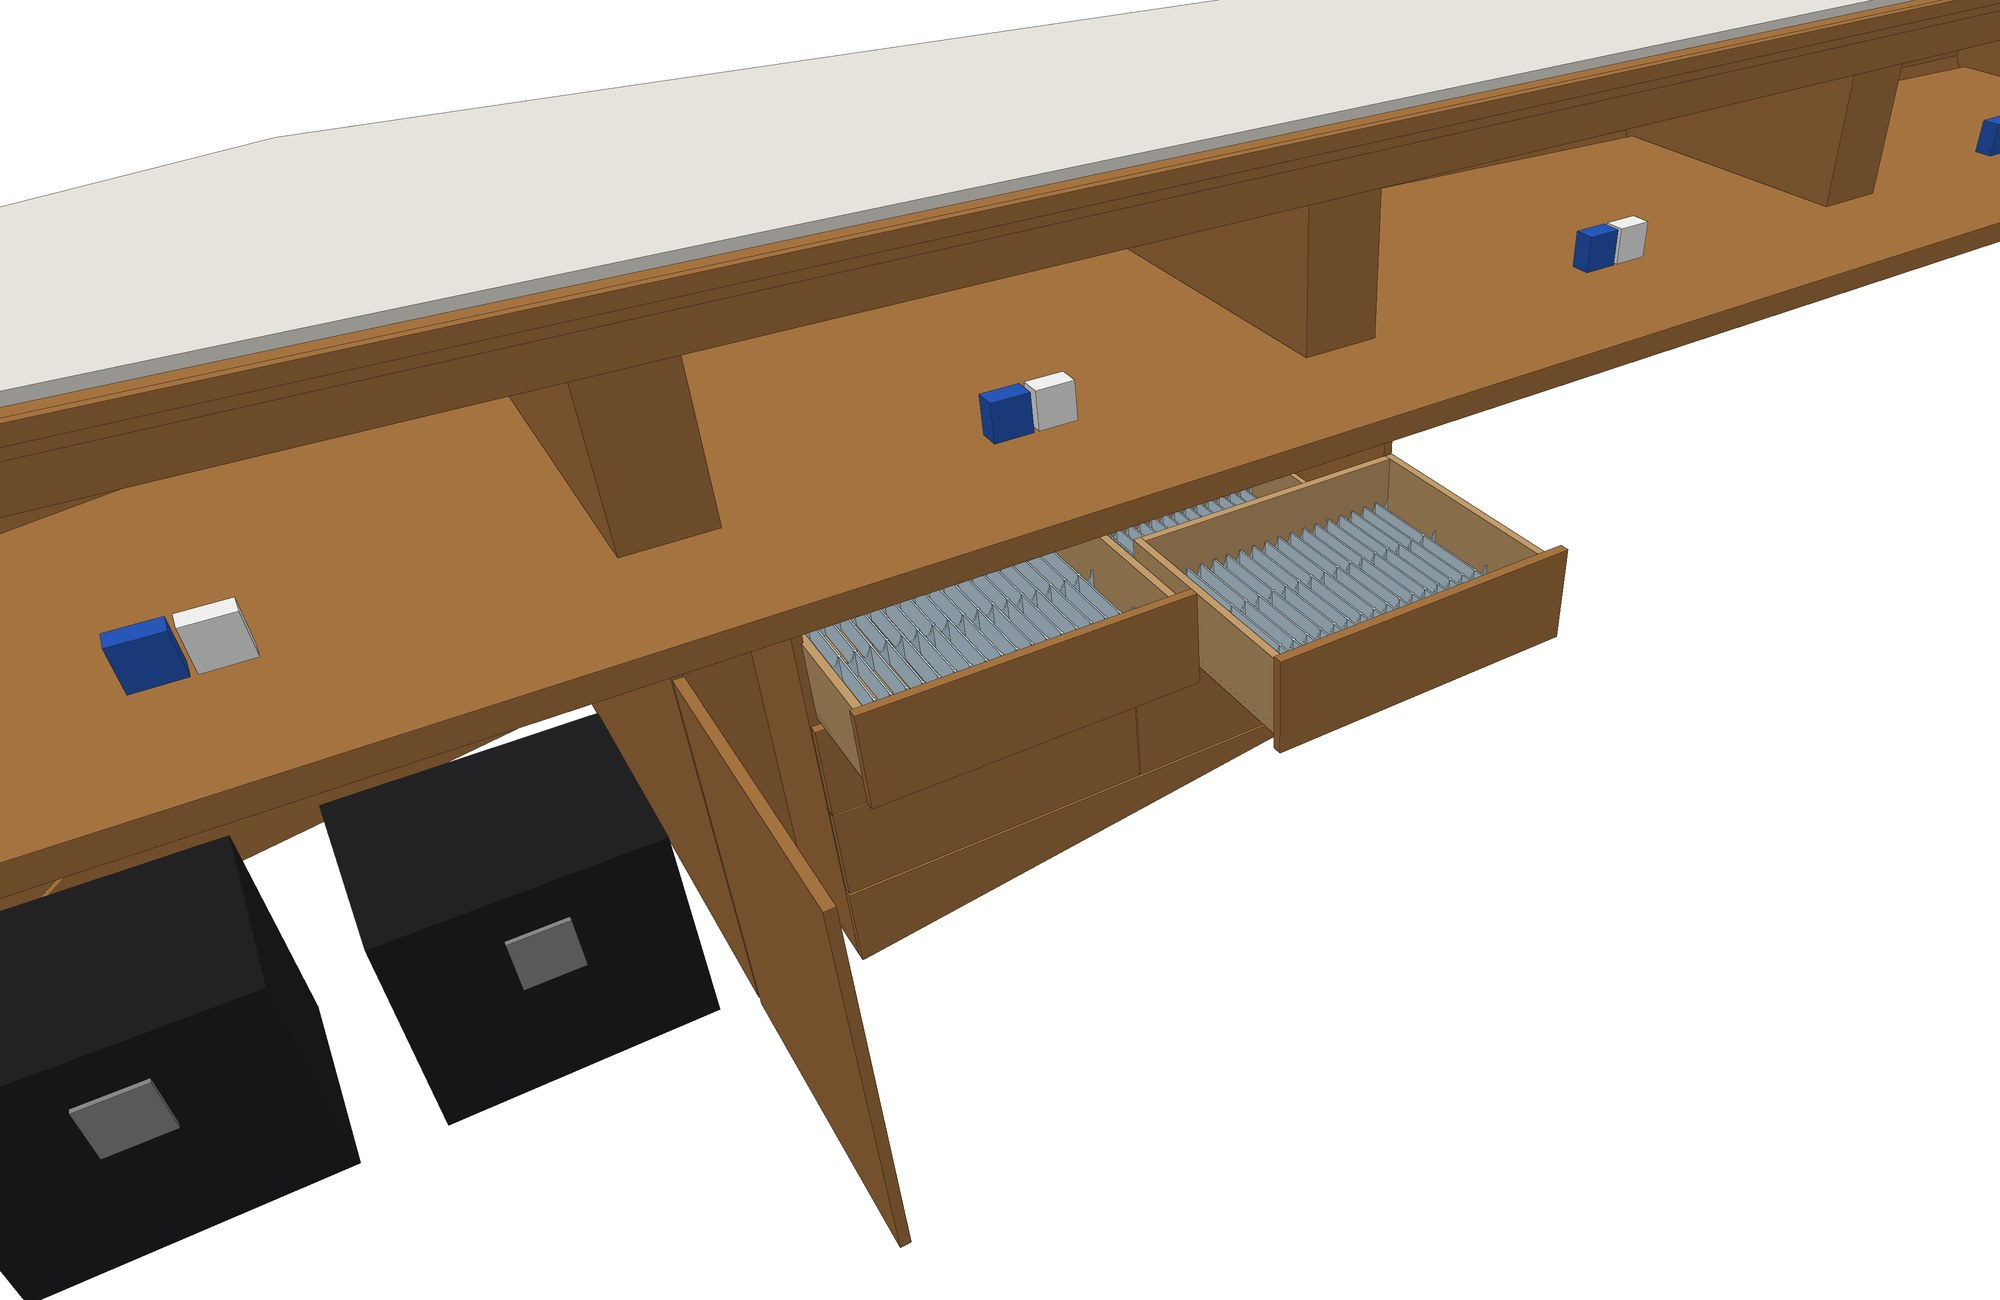
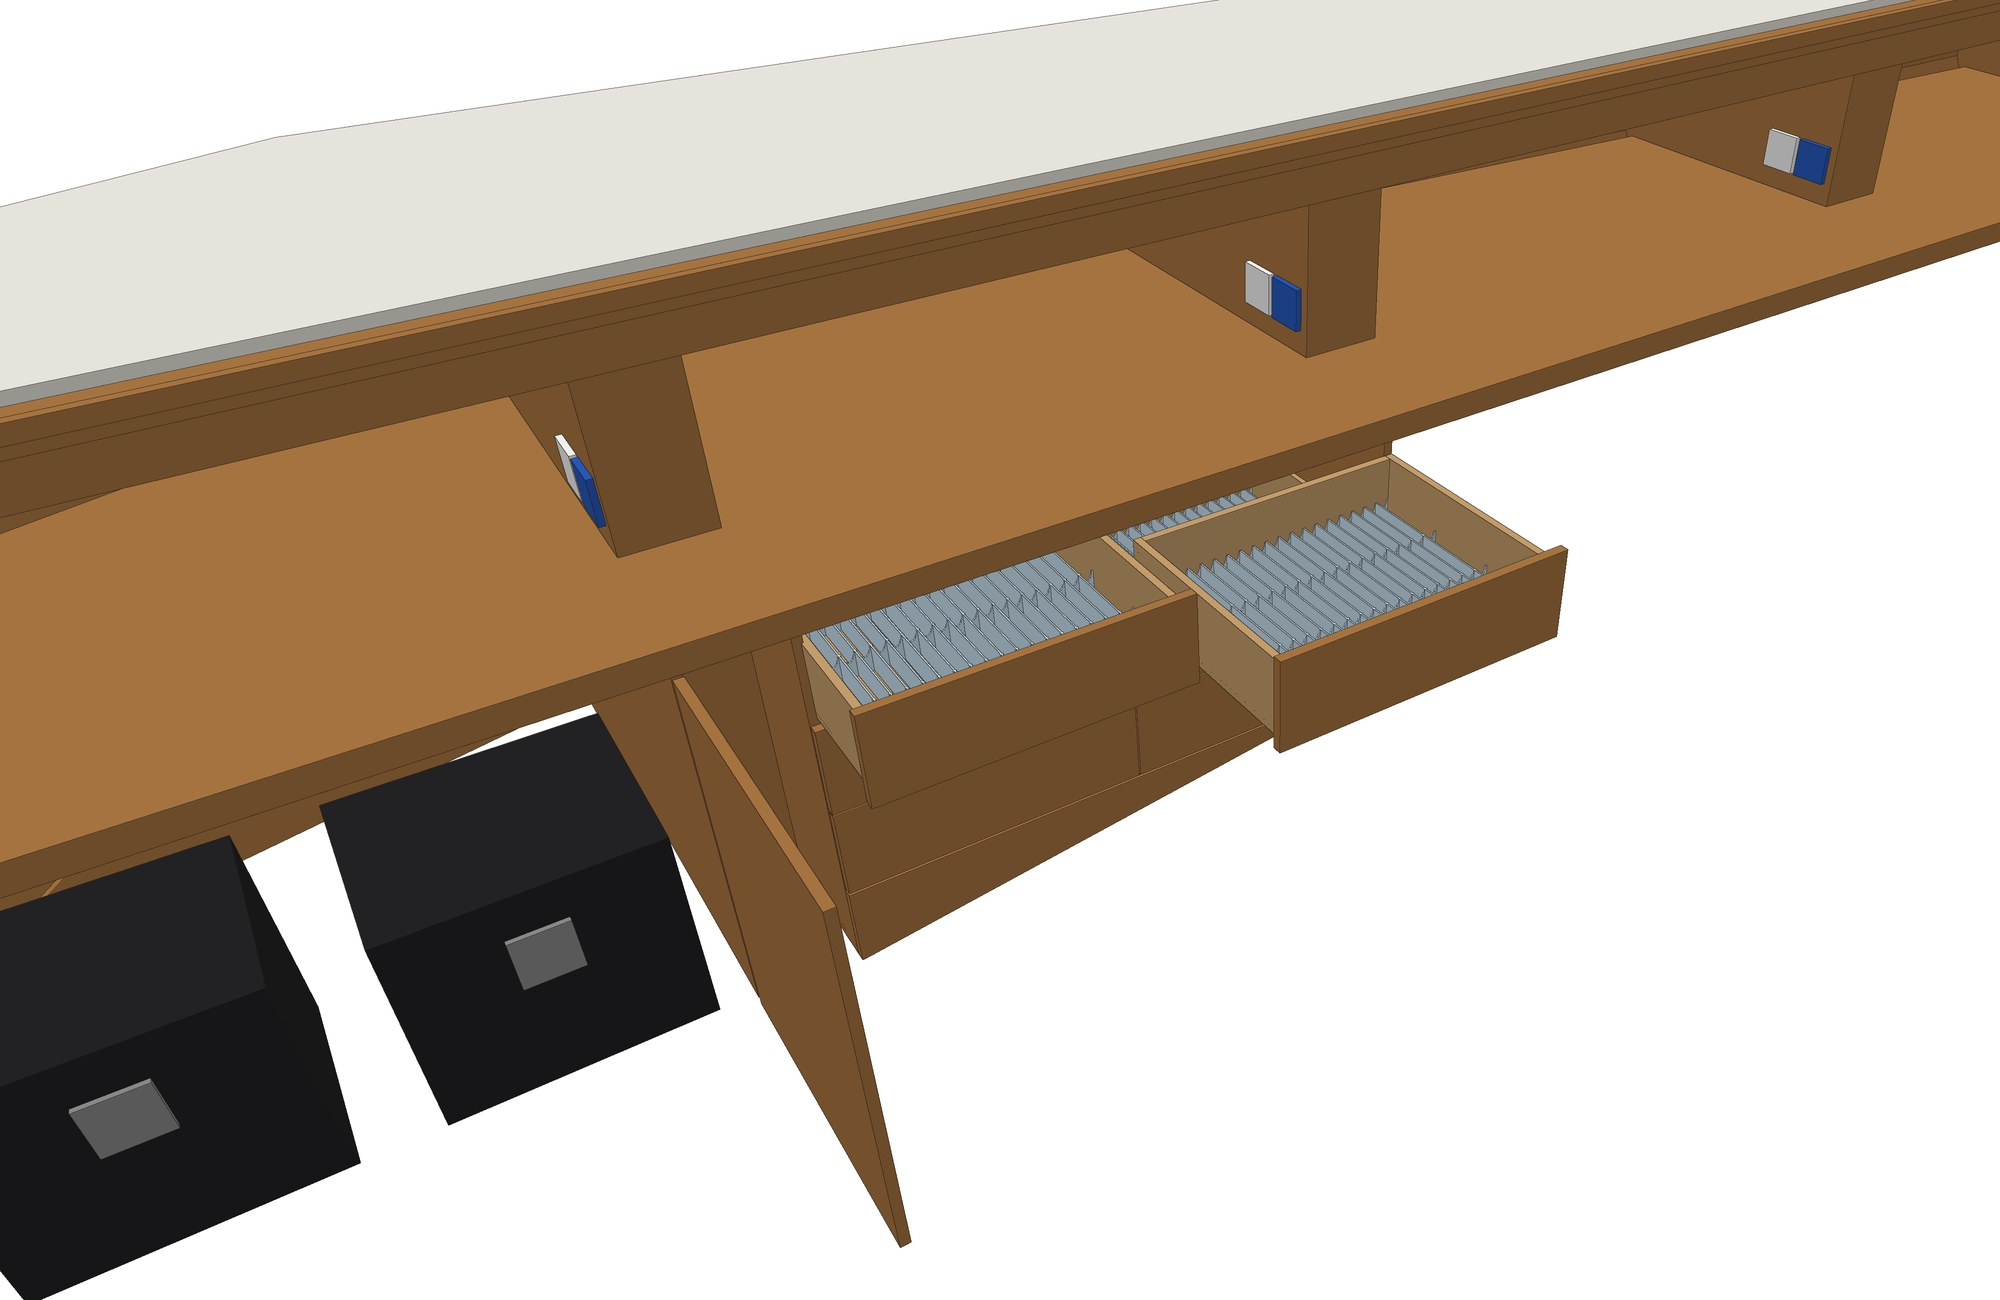
Reception desk: sockets moved to the side wood walls of each bay
Claude-Session: https://claude.ai/code/session_0113K5N3bEcSHPxoNJZbabkf

diff --git a/reception-desk/index.html b/reception-desk/index.html
@@ -22,7 +22,7 @@ footer{text-align:center;color:#444;font-size:14px;padding:20px}</style></head><
 <li>الفتحة 2: <b>6 أدراج</b> (عمودان × 3) وأسفلها شريط ثابت مائل مع خط الحجر. الفتحات 3 إلى 6: <b>مكان للأرجل</b>.</li>
 <li><b>الأدراج:</b> قواطع <b>بليكسي</b> شفافة بارتفاع 5 سم مع <b>فتحة إصبع</b> – <b>كل خانة لغرفة واحدة</b> (جوازات النزلاء + بطاقة المفتاح) – 57 خانة في كل درج، المجموع <b>342 خانة لـ 330 غرفة</b> – عمق الدرج 45 سم.</li>
 <li>عرض كل عمود <b>17 سم</b> بعد الكسوة. القواطع الوسطى تقسّم سطح العمل إلى <b>رفوف</b> وتنزل مائلة نحو الحجر.</li>
-<li><b>الذراع الطويل B:</b> 4 أبواب. <b>الذراع القصير C:</b> باب واحد. الأبواب حتى ارتفاع <b>106 سم</b> وفوقها جبهة خشب، وتحتها <b>قاعدة ثابتة 20 سم</b> على كامل الطول.</li><li><b>الكهرباء:</b> في كل فتحة على سطح العمل <b>مقبس كهرباء + مقبس شبكة إنترنت</b> (12 مقبساً) بجانب حافة الحجر من الداخل – النوع يُؤكَّد.</li>
+<li><b>الذراع الطويل B:</b> 4 أبواب. <b>الذراع القصير C:</b> باب واحد. الأبواب حتى ارتفاع <b>106 سم</b> وفوقها جبهة خشب، وتحتها <b>قاعدة ثابتة 20 سم</b> على كامل الطول.</li><li><b>الكهرباء:</b> في كل فتحة <b>مقبس كهرباء + مقبس شبكة إنترنت</b> (12 مقبساً) على <b>الجدار الجانبي الخشبي</b> لكل فتحة فوق سطح العمل – النوع يُؤكَّد.</li>
 <li>مقاسات الخزنتين والمقابس في المخططات تقريبية وتُؤكَّد حسب الأجهزة الفعلية. الأجزاء المائلة تُؤخذ <b>بقالب من الموقع</b>.</li></ul></div>
 <h2>صور ثلاثية الأبعاد</h2><div class="g"><figure><a href="img/r_out.jpg" target="_blank"><img src="img/r_out.jpg" loading="lazy" alt="من الخارج – جهة الضيوف"></a><figcaption>من الخارج – جهة الضيوف</figcaption></figure><figure><a href="img/r_in1.jpg" target="_blank"><img src="img/r_in1.jpg" loading="lazy" alt="من الداخل – جهة الموظف"></a><figcaption>من الداخل – جهة الموظف</figcaption></figure><figure><a href="img/r_drawer.jpg" target="_blank"><img src="img/r_drawer.jpg" loading="lazy" alt="الأدراج – خانة لكل غرفة"></a><figcaption>الأدراج – خانة لكل غرفة</figcaption></figure><figure><a href="img/r_safe.jpg" target="_blank"><img src="img/r_safe.jpg" loading="lazy" alt="الخزانة – خزنتان"></a><figcaption>الخزانة – خزنتان</figcaption></figure><figure><a href="img/r_fridge.jpg" target="_blank"><img src="img/r_fridge.jpg" loading="lazy" alt="الذراع B من الداخل"></a><figcaption>الذراع B من الداخل</figcaption></figure><figure><a href="img/r_in2.jpg" target="_blank"><img src="img/r_in2.jpg" loading="lazy" alt="واجهة داخلية مباشرة"></a><figcaption>واجهة داخلية مباشرة</figcaption></figure><figure><a href="img/r_top.jpg" target="_blank"><img src="img/r_top.jpg" loading="lazy" alt="منظر علوي من الطرف"></a><figcaption>منظر علوي من الطرف</figcaption></figure></div>
 <h2>المخططات</h2><div class="g"><figure><a href="img/plan1.jpg" target="_blank"><img src="img/plan1.jpg" loading="lazy" alt="المسقط الأفقي – مفتاح الواجهات"></a><figcaption>المسقط الأفقي – مفتاح الواجهات</figcaption></figure><figure><a href="img/plan2.jpg" target="_blank"><img src="img/plan2.jpg" loading="lazy" alt="الواجهة الداخلية A – من جهة الموظف"></a><figcaption>الواجهة الداخلية A – من جهة الموظف</figcaption></figure><figure><a href="img/plan3.jpg" target="_blank"><img src="img/plan3.jpg" loading="lazy" alt="الذراعان من الداخل – B و C"></a><figcaption>الذراعان من الداخل – B و C</figcaption></figure><figure><a href="img/plan4.jpg" target="_blank"><img src="img/plan4.jpg" loading="lazy" alt="مقاطع – مسار التكسية الداخلية"></a><figcaption>مقاطع – مسار التكسية الداخلية</figcaption></figure><figure><a href="img/plan7.jpg" target="_blank"><img src="img/plan7.jpg" loading="lazy" alt="تفاصيل الأدراج – خانة لكل غرفة"></a><figcaption>تفاصيل الأدراج – خانة لكل غرفة</figcaption></figure><figure><a href="img/plan8.jpg" target="_blank"><img src="img/plan8.jpg" loading="lazy" alt="المواصفات وترتيب الجوازات والبطاقات"></a><figcaption>المواصفات وترتيب الجوازات والبطاقات</figcaption></figure></div>
